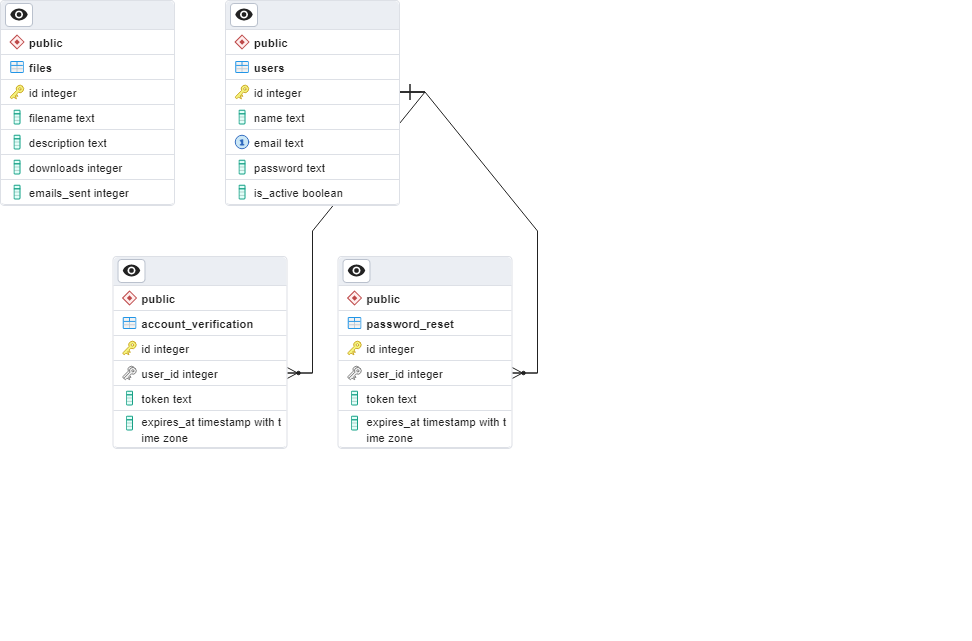
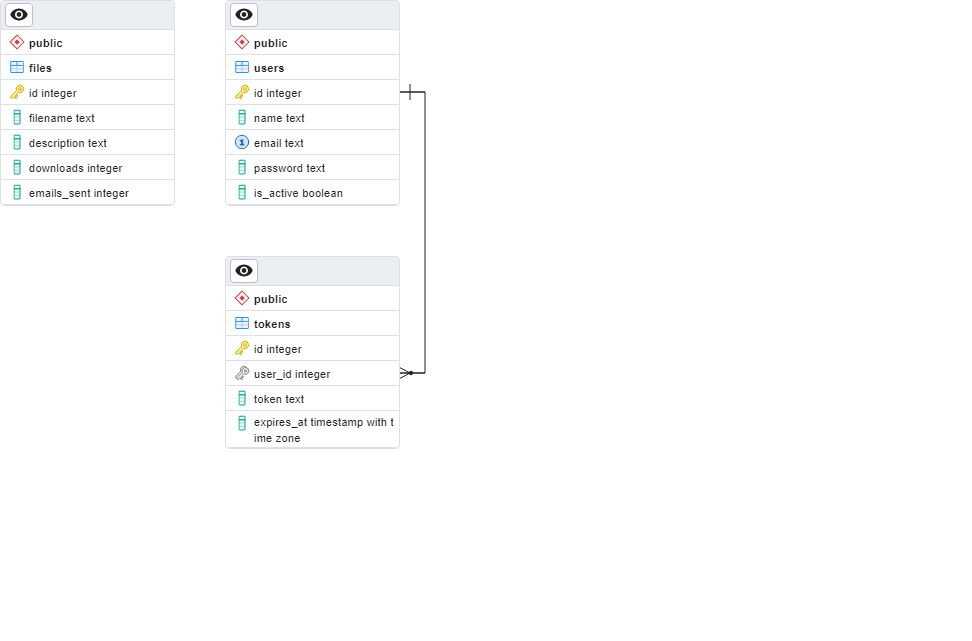
Configured database

diff --git a/database.js b/database.js
@@ -1,14 +1,57 @@
 const {Client} = require('pg');
 
+
 const client = new Client({
-    host: 'localhost',
-    port: 5432,
-    user: 'postgres',
-    password: 'rootUser',
-    database: 'fileserver'
+    host: process.env.RAILWAY_POSTGRES_HOST,
+    port: process.env.RAILWAY_POSTGRES_PORT,
+    user: process.env.RAILWAY_POSTGRES_USER,
+    password: process.env.RAILWAY_POSTGRES_PASSWORD,
+    database: process.env.RAILWAY_POSTGRES_DB,
+    ssl: {
+        rejectUnauthorized: false
+    }
 });
 
-client.on('connect', () => console.log('Database connected!'));
+client.on('connect', async () => {
+    try {
+        console.log('Database connected!')
+    
+        //create files table
+        await client.query(
+            `CREATE TABLE IF NOT EXISTS files (
+                id SERIAL PRIMARY KEY,
+                filename TEXT NOT NULL,
+                description TEXT NOT NULL,
+                downloads INTEGER NOT NULL DEFAULT 0,
+                emails_sent INTEGER NOT NULL DEFAULT 0
+            )`
+        );
+
+        // create users table
+        await client.query(
+            `CREATE TABLE IF NOT EXISTS users (
+                id SERIAL PRIMARY KEY,
+                name TEXT NOT NULL, 
+                email TEXT NOT NULL UNIQUE, 
+                password TEXT NOT NULL, 
+                is_active BOOLEAN NOT NULL DEFAULT false
+            )`
+        );
+    
+        // create tokens table
+        await client.query(
+            `CREATE TABLE IF NOT EXISTS tokens (
+                id SERIAL PRIMARY KEY,
+                user_id INTEGER NOT NULL REFERENCES users(id), 
+                token TEXT NOT NULL, 
+                expires_at TIMESTAMP WITH TIME ZONE NOT NULL
+            )`
+        );
+    } catch (err) {
+        console.log(err);
+    }
+    
+});
 
 client.on('end', () => console.log('Database connection ended!'));
 

diff --git a/controllers/userController.js b/controllers/userController.js
@@ -41,8 +41,7 @@ exports.create = async function (req, res) {
             tokenExpiry.setHours(tokenExpiry.getHours() + 48);
 
             // save token info 
-            const table = 'account_verification';
-            await Token.save(table, userId, token, tokenExpiry); 
+            await Token.save(userId, token, tokenExpiry); 
             
             // create verification link 
             const link = `http://localhost:3000/verify?token=${token}`;  
@@ -61,7 +60,7 @@ exports.create = async function (req, res) {
             const info = await transporter.sendMail(message);        
             console.log('Email sent: ' + info.response);
     
-            res.send("Account created successfully! Check your email for instructions to activate the account. Remember to check your spam folder if you can't find the message.");
+            res.send("Account created successfully! Check your email inbox or spam to activate the account.");
         }
     } catch (err) {
         console.log(err);
@@ -73,8 +72,7 @@ exports.verify = async function (req, res) {
         const token = req.query.token;
 
         // get token info
-        const table = 'account_verification';
-        const result = await Token.get(table, token); 
+        const result = await Token.get(token); 
 
         const { user_id, expires_at } = result.rows[0];
 
@@ -87,7 +85,7 @@ exports.verify = async function (req, res) {
             await User.activate(user_id);
 
             // delete token info
-            await Token.delete(table, token);
+            await Token.delete(token);
  
             const link = 'http://localhost:3000/login';
             res.send(`<p>Your account has been activated! Click <a href="${link}">here</a> to log in.</p>`);

diff --git a/controllers/resetController.js b/controllers/resetController.js
@@ -24,8 +24,7 @@ exports.sendLink = async (req, res) => {
         tokenExpiry.setHours(tokenExpiry.getHours() + 48); 
 
         // save token info
-        const table = 'password_reset';
-        await Token.save(table, userId, token, tokenExpiry); 
+        await Token.save(userId, token, tokenExpiry); 
 
         // create reset link 
         const link = `http://localhost:3000/reset-password?token=${token}`;
@@ -55,8 +54,7 @@ exports.verifyLink = async (req, res) => {
         const token = req.query.token;
 
         // get token info
-        const table = 'password_reset';
-        const result = await Token.get(table, token); 
+        const result = await Token.get(token); 
 
         // verify token
         const { expires_at } = result.rows[0];
@@ -79,8 +77,7 @@ exports.reset = async (req, res) => {
         const token = req.body.token;
 
         // get token info
-        const table = 'password_reset';
-        const result = await Token.get(table, token);
+        const result = await Token.get(token);
 
         // hash password
         const saltRounds = 10;
@@ -91,7 +88,7 @@ exports.reset = async (req, res) => {
         await User.reset(hashPassword, userId);
         
         // delete token info
-        await Token.delete(table, token);
+        await Token.delete(token);
  
         const link = 'http://localhost:3000/login';
         res.send(`<p>Password reset successful! Click <a href="${link}">here</a> to log in.</p>`);

diff --git a/models/token.js b/models/token.js
@@ -1,14 +1,14 @@
 const client = require('../database');
 
 
-exports.save = (table, userId, token, tokenExpiry) => {
-    return client.query(`INSERT INTO ${table}(user_id, token, expires_at) VALUES($1, $2, $3)`, [userId, token, tokenExpiry]);
+exports.save = (userId, token, tokenExpiry) => {
+    return client.query(`INSERT INTO tokens(user_id, token, expires_at) VALUES($1, $2, $3)`, [userId, token, tokenExpiry]);
 }
 
-exports.get = (table, token) => {
-    return client.query(`SELECT * FROM ${table} WHERE token = $1`, [token]);
+exports.get = (token) => {
+    return client.query(`SELECT * FROM tokens WHERE token = $1`, [token]);
 }
 
-exports.delete = (table, token) => {
-    return client.query(`DELETE FROM ${table} WHERE token = $1`, [token]);
+exports.delete = (token) => {
+    return client.query(`DELETE FROM tokens WHERE token = $1`, [token]);
 }
